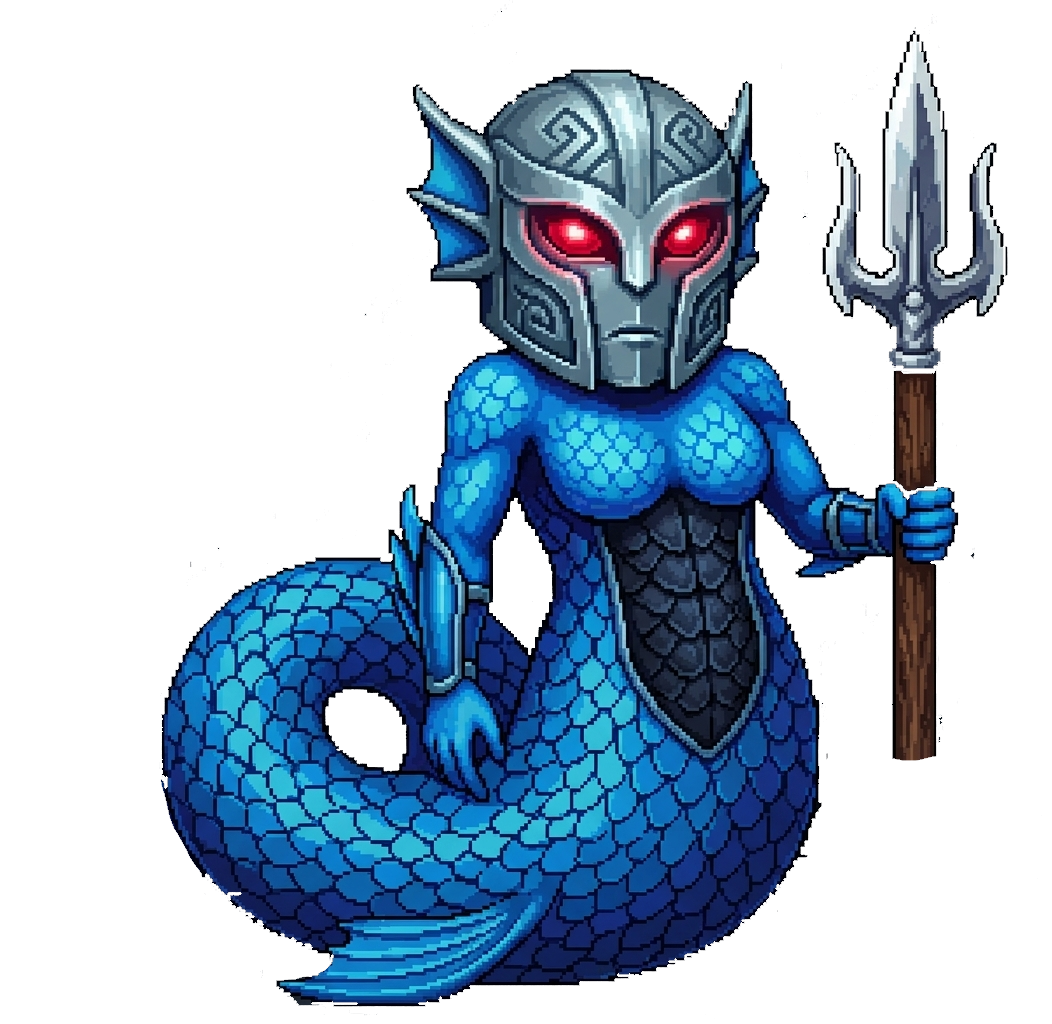
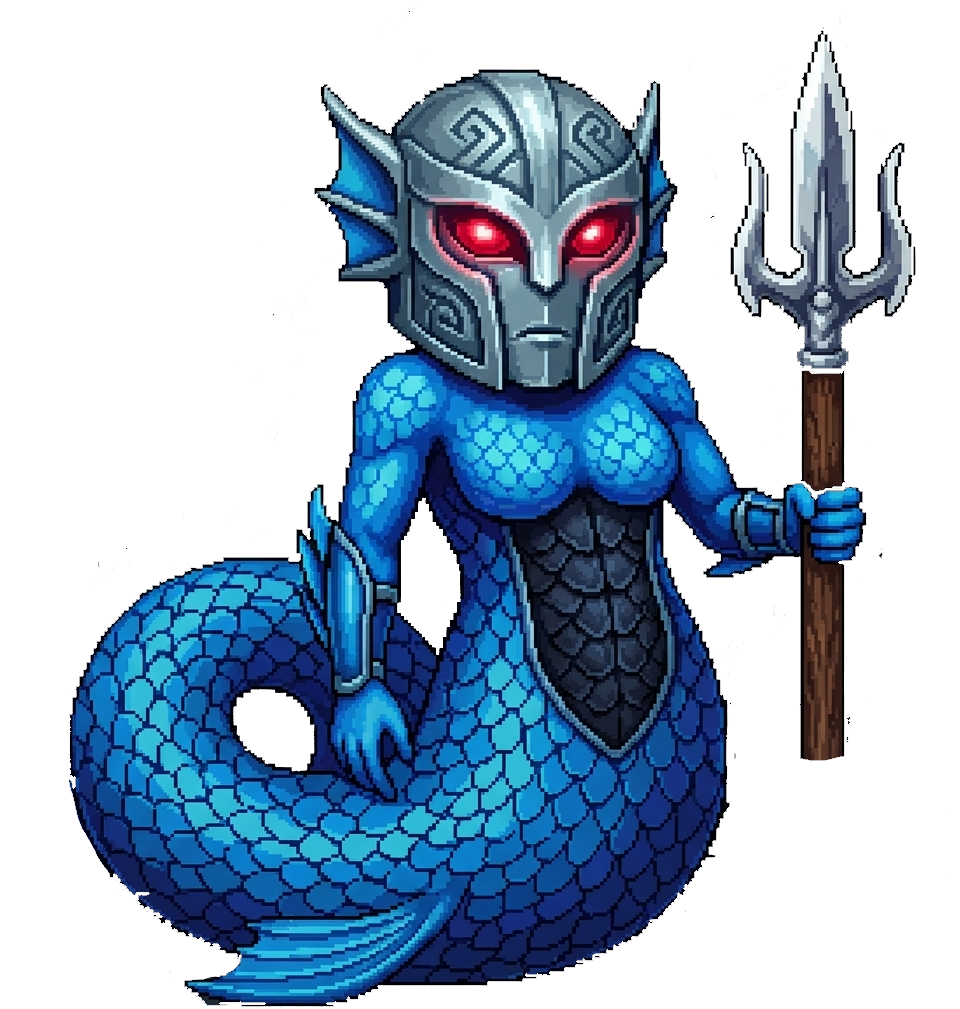
Added multi enemy support
* Now the game support more than one enemy

diff --git a/src/main/java/it/unicam/cs/mpgc/rpg129072/screens/CombatScreen.java b/src/main/java/it/unicam/cs/mpgc/rpg129072/screens/CombatScreen.java
@@ -2,6 +2,7 @@ package it.unicam.cs.mpgc.rpg129072.screens;
 
 import it.unicam.cs.mpgc.rpg129072.components.Button.AttackButton;
 import it.unicam.cs.mpgc.rpg129072.controllers.CombatController;
+import it.unicam.cs.mpgc.rpg129072.enums.EnemyType;
 import it.unicam.cs.mpgc.rpg129072.managers.CombatManager;
 import javafx.geometry.Pos;
 import javafx.scene.Scene;
@@ -20,6 +21,7 @@ import javafx.scene.text.Text;
 import javafx.geometry.Insets;
 import it.unicam.cs.mpgc.rpg129072.enums.ActionType;
 
+import java.io.InputStream;
 import java.util.HashMap;
 import java.util.Objects;
 
@@ -46,10 +48,15 @@ public class CombatScreen extends Canvas implements Renderable {
         this.gc = this.getGraphicsContext2D();
 
         this.backgroundImage = new Image(Objects.requireNonNull(getClass().getResourceAsStream("/background/combat-background.jpg")));
-        this.playerImage = new Image(Objects.requireNonNull(getClass().getResourceAsStream("/characters/combat/elf-lord.png")));
-        this.enemyImage = new Image(Objects.requireNonNull(getClass().getResourceAsStream("/characters/combat/merfolk.png")));
+        this.playerImage = new Image(this.getCharacterPath("Lord"));
+        this.enemyImage = new Image(this.getCharacterPath(combatManager.getEnemyType().name()));
 
         this.render();
+    }
+
+    public InputStream getCharacterPath(String name){
+        String path = "/characters/combat/" + name.toLowerCase() + ".png";
+        return Objects.requireNonNull(getClass().getResourceAsStream(path));
     }
 
     public void render() {

diff --git a/src/main/java/it/unicam/cs/mpgc/rpg129072/managers/MapManager.java b/src/main/java/it/unicam/cs/mpgc/rpg129072/managers/MapManager.java
@@ -36,7 +36,7 @@ public class MapManager {
 
         this.crushedWheatMap = new boolean[columns][rows];
         this.player = new MapCharacter(
-                "/characters/map/elf-lord.png",
+                "/characters/map/lord.png",
                 playerPosX, playerPosY,
         16, 16,
         4, 2.5
@@ -73,7 +73,6 @@ public class MapManager {
                 enemyGridCoords = this.getPositionGrid(randomX, randomY);
                 playerGridCoords = this.getPositionGrid(player.getPositionX(), player.getPositionY());
             }
-
 
             EnemyType[] enemyTypes = EnemyType.values();
             EnemyType randomType = enemyTypes[random.nextInt(enemyTypes.length)];

diff --git a/src/main/java/it/unicam/cs/mpgc/rpg129072/screens/MenuScreen.java b/src/main/java/it/unicam/cs/mpgc/rpg129072/screens/MenuScreen.java
@@ -35,7 +35,7 @@ public class MenuScreen extends StackPane implements Renderable {
         menuLayout.setAlignment(Pos.CENTER);
 
         // Game title
-        Text gameTitle = new Text("EPIC GAME");
+        Text gameTitle = new Text("THE VILLAGE DEFENDER");
         gameTitle.setFont(Font.font("Arial", FontWeight.BOLD, 45));
         gameTitle.setFill(Color.WHITE);
         gameTitle.setStroke(Color.BLACK);

diff --git a/src/main/java/it/unicam/cs/mpgc/rpg129072/components/MapCharacter/MapEnemy.java b/src/main/java/it/unicam/cs/mpgc/rpg129072/components/MapCharacter/MapEnemy.java
@@ -12,9 +12,7 @@ public class MapEnemy extends MapCharacter {
     }
 
     private static String getEnemyImagePath(EnemyType enemyType){
-        return switch (enemyType){
-            case MERFOLK -> "/characters/map/merfolk.png";
-        };
+        return "/characters/map/" + enemyType.name().toLowerCase() + ".png";
     }
 
     public EnemyType getEnemyType() {

diff --git a/src/main/java/it/unicam/cs/mpgc/rpg129072/enums/EnemyType.java b/src/main/java/it/unicam/cs/mpgc/rpg129072/enums/EnemyType.java
@@ -1,5 +1,7 @@
 package it.unicam.cs.mpgc.rpg129072.enums;
 
 public enum EnemyType {
+    SKELETON,
+    ZOMBIE,
     MERFOLK
 }
